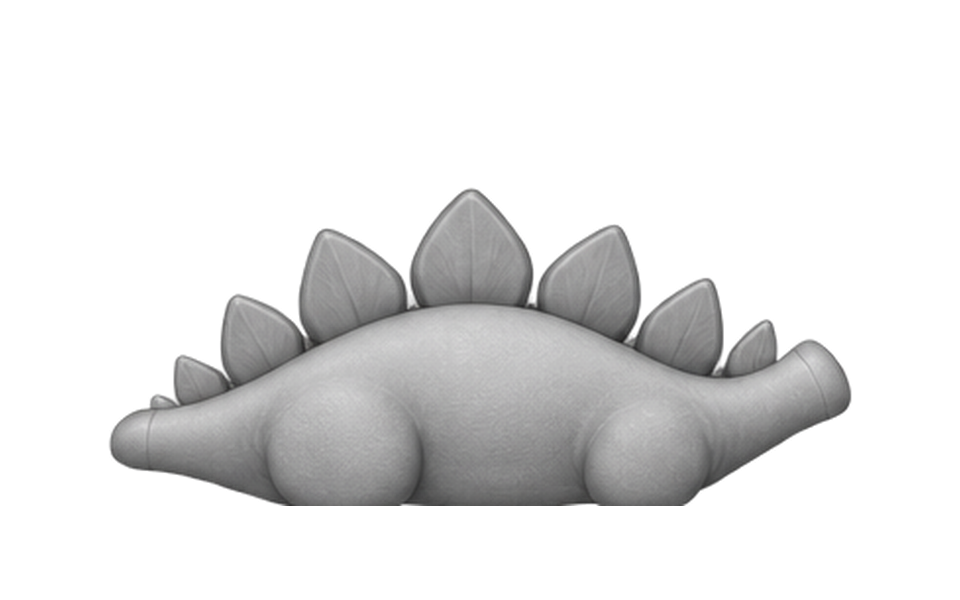
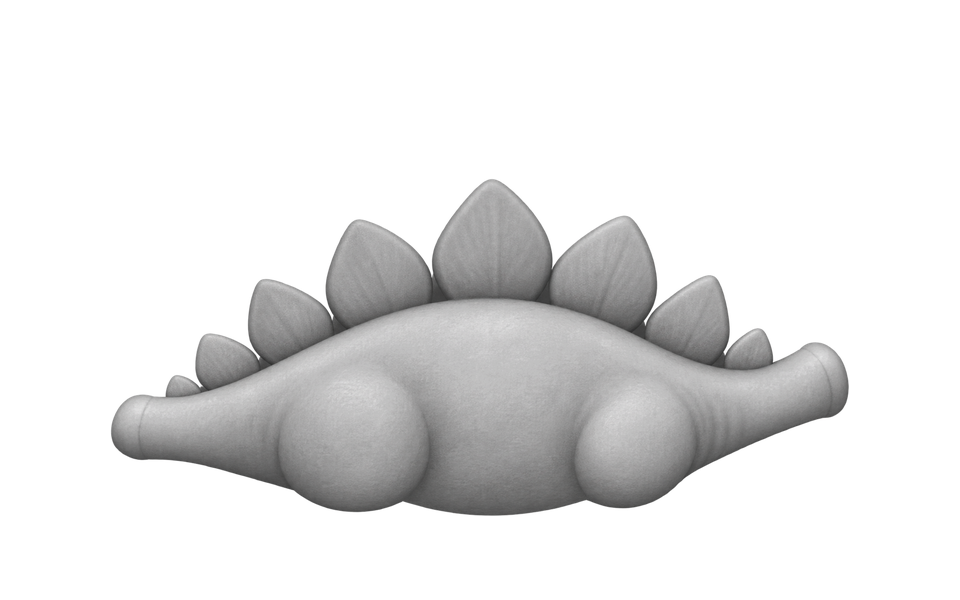
Claude mega update

diff --git a/src/data/art.js b/src/data/art.js
@@ -27,10 +27,36 @@ export const ART = {
   trex_arms: { file: 'art/trex_arms.png', attach: [24, 8] },
 
   // Sutton's shaded bodies (same 960x600 canvas and anchor points as anchors.json).
-  // Triceratops, Stegosaurus and Brachiosaurus still have flat-cut bellies; swap in the fixed versions when ready.
   triceratops_body: { file: 'art/triceratops_body.png' },
   stegosaurus_body: { file: 'art/stegosaurus_body.png' },
   spinosaurus_body: { file: 'art/spinosaurus_body.png' },
   brachiosaurus_body: { file: 'art/brachiosaurus_body.png' },
-  ankylosaurus_body: { file: 'art/ankylosaurus_body.png' }
+  ankylosaurus_body: { file: 'art/ankylosaurus_body.png' },
+
+  // Legs from the second art batch. Single legs: the game adds a darker far-side copy behind the body.
+  // "arms" = front legs for these four-legged dinos.
+  triceratops_legs: { file: 'art/triceratops_legs.png', attach: [74, 58] },
+  triceratops_arms: { file: 'art/triceratops_arms.png', attach: [61, 54] },
+  stegosaurus_legs: { file: 'art/stegosaurus_legs.png', attach: [72, 60] },
+  stegosaurus_arms: { file: 'art/stegosaurus_arms.png', attach: [57, 50] },
+
+  // Third art batch: heads, legs, arms and the Ankylosaurus tail.
+  triceratops_head: { file: 'art/triceratops_head.png', attach: [34, 228] },
+  stegosaurus_head: { file: 'art/stegosaurus_head.png', attach: [27, 132] },
+  spinosaurus_head: { file: 'art/spinosaurus_head.png', attach: [36, 188] },
+  brachiosaurus_head: { file: 'art/brachiosaurus_head.png', attach: [30, 339] },
+  ankylosaurus_head: { file: 'art/ankylosaurus_head.png', attach: [26, 120] },
+  ankylosaurus_tail: { file: 'art/ankylosaurus_tail.png', attach: [391, 162] },
+  spinosaurus_legs: { file: 'art/spinosaurus_legs.png', attach: [89, 60] },
+  spinosaurus_arms: { file: 'art/spinosaurus_arms.png', attach: [47, 34] },
+  brachiosaurus_legs: { file: 'art/brachiosaurus_legs.png', attach: [79, 60] },
+  brachiosaurus_arms: { file: 'art/brachiosaurus_arms.png', attach: [74, 64] },
+  ankylosaurus_legs: { file: 'art/ankylosaurus_legs.png', attach: [65, 48] },
+  ankylosaurus_arms: { file: 'art/ankylosaurus_arms.png', attach: [52, 50] },
+
+  // Last four tails.
+  triceratops_tail: { file: 'art/triceratops_tail.png', attach: [362, 46] },
+  stegosaurus_tail: { file: 'art/stegosaurus_tail.png', attach: [435, 62] },
+  spinosaurus_tail: { file: 'art/spinosaurus_tail.png', attach: [490, 61] },
+  brachiosaurus_tail: { file: 'art/brachiosaurus_tail.png', attach: [508, 55] }
 };

diff --git a/src/data/parts.js b/src/data/parts.js
@@ -22,14 +22,14 @@ export const DINOS = {
 // Which dinos have art for each part. Add a dino here once its art exists.
 export const PART_OPTIONS = {
   body: ['trex', 'triceratops', 'stegosaurus', 'spinosaurus', 'brachiosaurus', 'ankylosaurus'],
-  arms: ['trex', 'triceratops', 'stegosaurus', 'spinosaurus', 'brachiosaurus'],
-  head: ['trex', 'triceratops', 'stegosaurus', 'spinosaurus', 'brachiosaurus'],
-  legs: ['trex', 'triceratops', 'stegosaurus', 'spinosaurus', 'brachiosaurus'],
-  tail: ['trex', 'triceratops', 'stegosaurus', 'spinosaurus', 'brachiosaurus']
+  arms: ['trex', 'triceratops', 'stegosaurus', 'spinosaurus', 'brachiosaurus', 'ankylosaurus'],
+  head: ['trex', 'triceratops', 'stegosaurus', 'spinosaurus', 'brachiosaurus', 'ankylosaurus'],
+  legs: ['trex', 'triceratops', 'stegosaurus', 'spinosaurus', 'brachiosaurus', 'ankylosaurus'],
+  tail: ['trex', 'triceratops', 'stegosaurus', 'spinosaurus', 'brachiosaurus', 'ankylosaurus']
 };
 
 // Four-legged dinos have front legs, not arms.
-export const FRONT_LEGS = ['triceratops', 'stegosaurus', 'brachiosaurus'];
+export const FRONT_LEGS = ['triceratops', 'stegosaurus', 'brachiosaurus', 'ankylosaurus'];
 export function partLabel(dino, part) {
   if (part === 'arms' && FRONT_LEGS.includes(dino)) return `${DINOS[dino]} front legs`;
   return `${DINOS[dino]} ${part}`;
@@ -62,7 +62,7 @@ export const TEXTURES = {
 export const BODY_ANCHORS = {
   trex:          { tail_base: [130, 337], hip: [367, 422], shoulder: [628, 339], neck: [818, 259] },
   triceratops:   { tail_base: [128, 325], hip: [355, 400], shoulder: [645, 392], neck: [820, 242] }, // rounded-belly redraw
-  stegosaurus:   { tail_base: [145, 437], hip: [354, 457], shoulder: [639, 411], neck: [826, 383] },
+  stegosaurus:   { tail_base: [125, 428], hip: [355, 468], shoulder: [635, 460], neck: [828, 388] }, // rounded-belly redraw
   spinosaurus:   { tail_base: [149, 409], hip: [355, 444], shoulder: [640, 408], neck: [826, 339] },
   brachiosaurus: { tail_base: [128, 372], hip: [345, 432], shoulder: [658, 422], neck: [822, 268] }, // rounded-belly redraw
   ankylosaurus:  { tail_base: [150, 343], hip: [367, 392], shoulder: [647, 352], neck: [831, 303] }
